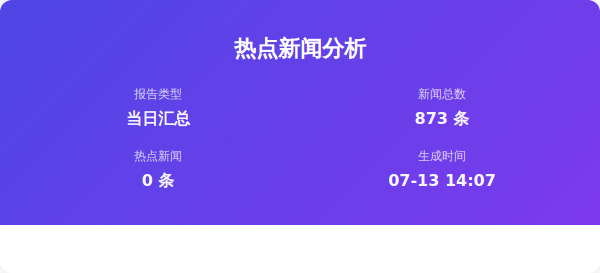
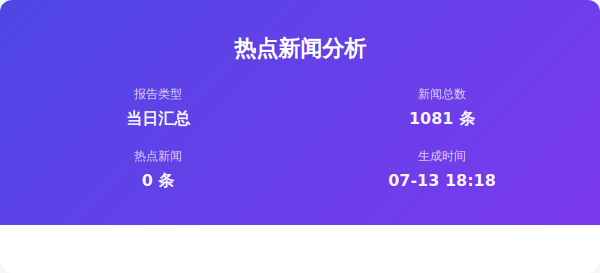
Auto update by GitHub Actions at Mon Jul 13 18:18:21 CST 2026

Changed region(s): [[0.66, 0.4103, 0.81, 0.4689], [0.75, 0.6447, 0.84, 0.674]]

diff --git a/output/2026年07月13日/html/当日汇总.html b/output/2026年07月13日/html/当日汇总.html
@@ -357,7 +357,7 @@
                     </div>
                     <div class="info-item">
                         <span class="info-label">新闻总数</span>
-                        <span class="info-value">873 条</span>
+                        <span class="info-value">1081 条</span>
                     </div>
                     <div class="info-item">
                         <span class="info-label">热点新闻</span>
@@ -365,7 +365,7 @@
                     </div>
                     <div class="info-item">
                         <span class="info-label">生成时间</span>
-                        <span class="info-value">07-13 14:07</span>
+                        <span class="info-value">07-13 18:18</span>
                     </div>
                 </div>
             </div>